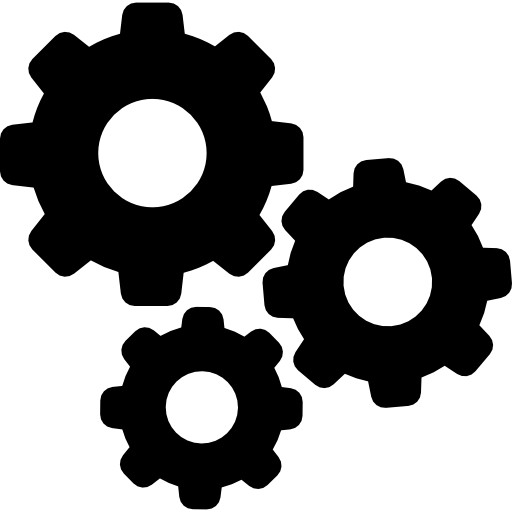
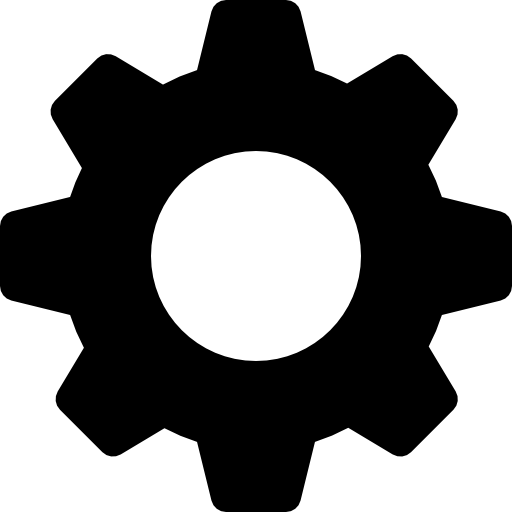
maj du css

diff --git a/src/main/resources/org/example/tierhub/css/application-dark.css b/src/main/resources/org/example/tierhub/css/application-dark.css
@@ -1,10 +1,11 @@
 
 .root {
-    -fx-accent: #ff8800;
+    -fx-accent: #D24364;
     -fx-focus-color: -fx-accent;
-    -fx-base: #09121a;
-    -fx-control-inner-background: #172d40;/*derive(-fx-base, 25%);*/
-    -fx-control-inner-background-alt: -fx-control-inner-background ;
+    -fx-base: #172d40;
+    -fx-background : -fx-base;
+    -fx-control-background: #172d40;
+    -fx-control-background-alt: -fx-control-inner-background ;
 }
 
 .label{
@@ -12,7 +13,7 @@
 }
 
 .text-field {
-    -fx-prompt-text-fill: gray;
+    -fx-prompt-text-fill: #EAEAEA;
 }
 
 .titulo{
@@ -69,3 +70,14 @@
     -fx-border-color: transparent;
     -fx-table-cell-border-color:transparent;
 }
+
+.hbox{
+    -fx-background-color: #1f3d57;
+}
+
+.icons {
+    position:absolute;
+    display:none;
+    content:"down-arrow.png";
+}
+.icons:hover {display:block}

diff --git a/src/main/java/org/example/tierhub/ControlleurTierslist.java b/src/main/java/org/example/tierhub/ControlleurTierslist.java
@@ -7,6 +7,7 @@ import javafx.geometry.Pos;
 import javafx.scene.Node;
 import javafx.scene.Scene;
 import javafx.scene.control.Label;
+import javafx.scene.effect.ColorAdjust;
 import javafx.scene.image.Image;
 import javafx.scene.image.ImageView;
 import javafx.scene.input.ClipboardContent;
@@ -48,10 +49,13 @@ public class ControlleurTierslist {
     @FXML
     private ImageView imgLogo;
 
+    private boolean colorbool = true;
+
     @FXML
     private void initialize(){
         javafx.application.Platform.runLater(() -> {
             changeMode();
+            setcolortier();
         });
 
         boiteDeEnBas.setOnDragOver(event -> {
@@ -231,22 +235,27 @@ public class ControlleurTierslist {
 
         HBox paramPan = new HBox();
         paramPan.setAlignment(Pos.CENTER);
-        String cheminRessource = getClass().getResource("engrenage.png").toExternalForm();
+        String cheminRessource = getClass().getResource("engrenage2.png").toExternalForm();
         ImageView engrenage = new ImageView(cheminRessource);
+        engrenage.getStyleClass().add("icons");
         engrenage.setFitHeight(40);
         engrenage.setFitWidth(40);
         paramPan.getChildren().add(engrenage);
 
         VBox flechePan = new VBox();
         flechePan.setAlignment(Pos.CENTER);
-        cheminRessource = getClass().getResource("flecheHaut.png").toExternalForm();
+        cheminRessource = getClass().getResource("up-arrow2.png").toExternalForm();
         ImageView flecheHaut = new ImageView(cheminRessource);
+        flecheHaut.getStyleClass().add("icons");
         flecheHaut.setFitHeight(20);
         flecheHaut.setFitWidth(20);
 
 
-        cheminRessource = getClass().getResource("flecheBas.png").toExternalForm();
+        cheminRessource = getClass().getResource("down-arrow2.png").toExternalForm();
         ImageView flecheBas = new ImageView(cheminRessource);
+        ColorAdjust monochrome = new ColorAdjust();
+        monochrome.setSaturation(-1.0);
+        flecheBas.getStyleClass().add("icons");
         flecheBas.setFitHeight(20);
         flecheBas.setFitWidth(20);
 
@@ -268,12 +277,12 @@ public class ControlleurTierslist {
 
         TilePane cat  = new TilePane();
         HBox.setHgrow(cat, Priority.ALWAYS);
-        cat.setStyle("-fx-background-color: #c7c8c9 ; -fx-border-color: #7c7c7d;");
-
+        //cat.setStyle("-fx-background-color: #c7c8c9 ; -fx-border-color: #7c7c7d;");
 
         ligne.getChildren().add(cat);
 
         boiteDeCat.getChildren().add(ligne);
+        setcolortier();
 
         flecheHaut.setOnMouseClicked(event -> {
             int pos = boiteDeCat.getChildren().indexOf(ligne);
@@ -281,6 +290,7 @@ public class ControlleurTierslist {
                 boiteDeCat.getChildren().remove(ligne);
                 boiteDeCat.getChildren().add(pos - 1, ligne);
             }
+            setcolortier();
 
         });
         flecheBas.setOnMouseClicked(event -> {
@@ -289,6 +299,7 @@ public class ControlleurTierslist {
                 boiteDeCat.getChildren().remove(ligne);
                 boiteDeCat.getChildren().add(pos + 1, ligne);
             }
+            setcolortier();
         });
 
         engrenage.setOnMouseClicked(event -> {
@@ -340,6 +351,21 @@ public class ControlleurTierslist {
             }
 
         });
+    }
+
+    private void setcolortier(){
+        for(Node node : boiteDeCat.getChildren()){
+            HBox hbox = (HBox) node;
+            TilePane cat = (TilePane) hbox.getChildren().get(2);
+            if(colorbool){
+                cat.setStyle("-fx-background-color: #172D40 ; -fx-border-color: #7c7c7d;");
+            }else{
+                cat.setStyle("-fx-background-color: #294257 ; -fx-border-color: #7c7c7d;");
+            }
+            colorbool = !colorbool;
+        }
+
+
     }
 
     @FXML